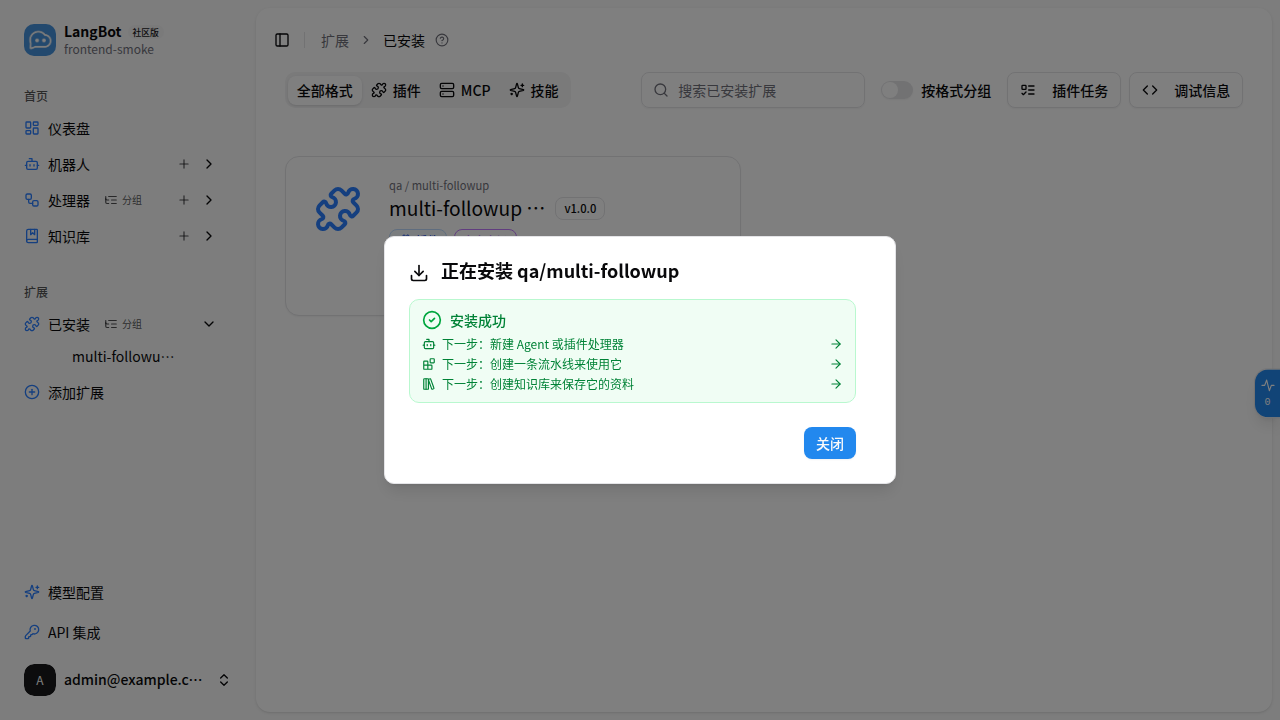
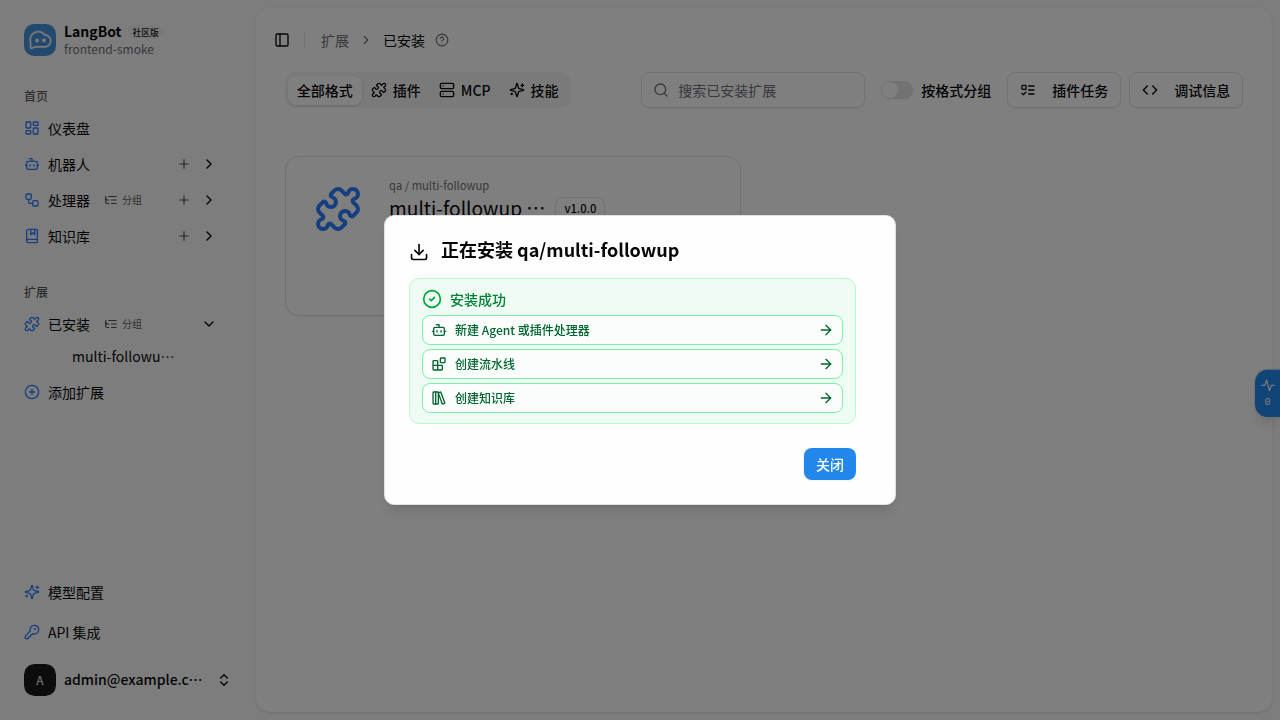
feat(web): make the next steps open the create form and stand out

Changed region(s): [[0.2812, 0.275, 0.7188, 0.5806], [0.2812, 0.4583, 0.7188, 0.7028]]

diff --git a/web/src/app/home/plugins/components/plugin-install-task/PluginInstallFollowUp.tsx b/web/src/app/home/plugins/components/plugin-install-task/PluginInstallFollowUp.tsx
@@ -1,25 +1,61 @@
+import { Link } from 'react-router-dom';
 import { useTranslation } from 'react-i18next';
-import { Blocks, Bot, LibraryBig } from 'lucide-react';
+import { ArrowRight, Blocks, Bot, LibraryBig } from 'lucide-react';
+import type { ReactNode } from 'react';
 import type { Plugin } from '@/app/infra/entities/plugin';
 import { FollowUpKind, followUpKindsForPlugin } from './plugin-follow-up';
-import PluginNextStepRow from './PluginNextStepRow';
+
+/**
+ * One row. Exported from this file rather than living in its own module: the
+ * follow-up and the pending-review line in the dialog are the only two callers,
+ * so a separate file earned nothing but an import.
+ *
+ * Bordered with the install banner's own green so it reads as a control rather
+ * than as body text next to the message.
+ */
+export function NextStepLink({
+  to,
+  icon: Icon,
+  label,
+  onNavigate,
+  children,
+}: {
+  to: string;
+  icon: typeof Bot;
+  label?: string;
+  onNavigate?: () => void;
+  children: ReactNode;
+}) {
+  return (
+    <Link
+      to={to}
+      onClick={onNavigate}
+      aria-label={label}
+      className="flex items-center gap-2 rounded-md border border-green-300 bg-white/70 px-2 py-1.5 text-xs font-medium text-green-800 hover:border-green-500 hover:bg-white dark:border-green-800 dark:bg-green-950/40 dark:text-green-200 dark:hover:border-green-600 dark:hover:bg-green-950/70"
+    >
+      <Icon className="w-4 h-4 shrink-0" aria-hidden="true" />
+      <span className="flex-1">{children}</span>
+      <ArrowRight className="w-4 h-4 shrink-0" aria-hidden="true" />
+    </Link>
+  );
+}
 
 const FOLLOW_UP_PRESENTATION: Record<
   FollowUpKind,
   { to: string; icon: typeof Bot; i18nKey: string }
 > = {
   agents: {
-    to: '/home/agents',
+    to: '/home/agents?id=new',
     icon: Bot,
     i18nKey: 'plugins.installProgress.followUp.agents',
   },
   pipelines: {
-    to: '/home/pipelines',
+    to: '/home/pipelines?id=new',
     icon: Blocks,
     i18nKey: 'plugins.installProgress.followUp.pipelines',
   },
   knowledge: {
-    to: '/home/knowledge',
+    to: '/home/knowledge?id=new',
     icon: LibraryBig,
     i18nKey: 'plugins.installProgress.followUp.knowledge',
   },
@@ -27,6 +63,10 @@ const FOLLOW_UP_PRESENTATION: Record<
 
 /**
  * Post-install "what now" steps derived from the components the plugin ships.
+ *
+ * Each row links straight into the create form (`?id=new`) rather than the
+ * plain list, so the step is one click instead of landing somewhere and
+ * hunting for the button.
  *
  * Renders nothing when no component needs a follow-up (Parser/Page-only
  * plugins), so the success banner stays a single line for those.
@@ -44,26 +84,20 @@ export default function PluginInstallFollowUp({
   if (kinds.length === 0) return null;
 
   return (
-    <div
+    <ul
       className="mt-1.5 space-y-1"
-      role="group"
       aria-label={t('plugins.installProgress.followUp.nextSteps')}
     >
-      <p className="text-xs font-medium text-green-700 dark:text-green-300">
-        {t('plugins.installProgress.followUp.nextSteps')}
-      </p>
       {kinds.map((kind) => {
         const { to, icon: Icon, i18nKey } = FOLLOW_UP_PRESENTATION[kind];
         return (
-          <PluginNextStepRow
-            key={kind}
-            to={to}
-            icon={Icon}
-            text={t(i18nKey)}
-            onNavigate={onNavigate}
-          />
+          <li key={kind}>
+            <NextStepLink to={to} icon={Icon} onNavigate={onNavigate}>
+              {t(i18nKey)}
+            </NextStepLink>
+          </li>
         );
       })}
-    </div>
+    </ul>
   );
 }

diff --git a/web/tests/e2e/plugin-install-followup-shots.spec.ts b/web/tests/e2e/plugin-install-followup-shots.spec.ts
@@ -145,21 +145,26 @@ test('multi-component install shows one link per distinct next step', async ({
   await installLangBotApiMocks(page, { authenticated: true });
   const dialog = await shoot(page, 'multi');
 
-  await expect(
-    dialog.getByRole('link', { name: /Create an Agent/i }),
-  ).toBeVisible();
+  const agent = dialog.getByRole('link', { name: /Create an Agent/i });
+  await expect(agent).toBeVisible();
   await expect(
     dialog.getByRole('link', { name: /Create a pipeline/i }),
   ).toHaveCount(1);
   await expect(
     dialog.getByRole('link', { name: /knowledge base/i }),
   ).toBeVisible();
+  // Each row goes straight into the create form, not the bare list.
+  await expect(agent).toHaveAttribute('href', '/home/agents?id=new');
+
+  // And clicking actually navigates there (the row closes the dialog too).
+  await agent.click();
+  await expect(page).toHaveURL(/\/home\/agents\?id=new/);
 });
 
 test('parser-only install keeps the banner a single line', async ({ page }) => {
   await installLangBotApiMocks(page, { authenticated: true });
   const dialog = await shoot(page, 'parser');
-  await expect(dialog.getByRole('group', { name: /Next steps/i })).toHaveCount(
+  await expect(dialog.getByRole('list', { name: /Next steps/i })).toHaveCount(
     0,
   );
 });
@@ -167,14 +172,21 @@ test('parser-only install keeps the banner a single line', async ({ page }) => {
 test('pending permission review wins over the follow-up', async ({ page }) => {
   await installLangBotApiMocks(page, { authenticated: true });
   const dialog = await shoot(page, 'review');
-  // The review is the only row while it is pending: it sits in the same group
-  // the follow-up uses, so the two states look identical and must not stack.
-  const group = dialog.getByRole('group', { name: /Next steps/i });
-  await expect(group).toHaveCount(1);
-  await expect(
-    group.getByRole('link', { name: /Review permissions|审阅权限|審閱權限/ }),
-  ).toBeVisible();
-  await expect(group.getByRole('link')).toHaveCount(1);
+  // The review renders in the same row shape the follow-up uses, so the two
+  // states look alike; it must be the only row and no follow-up may stack on
+  // top of it.
+  const review = dialog.getByRole('link', {
+    name: /Review permissions|审阅权限|審閱權限/,
+  });
+  await expect(review).toBeVisible();
+  await expect(review).toHaveAttribute(
+    'href',
+    /\/home\/extensions\?id=qa-review%2Freview-followup/,
+  );
+  await expect(dialog.getByRole('list', { name: /Next steps/i })).toHaveCount(
+    0,
+  );
+  await expect(dialog.getByRole('link')).toHaveCount(1);
 });
 
 test('the pending-review list button is short but fully labelled', async ({

diff --git a/web/src/app/home/plugins/components/plugin-install-task/PluginInstallProgressDialog.tsx b/web/src/app/home/plugins/components/plugin-install-task/PluginInstallProgressDialog.tsx
@@ -23,8 +23,7 @@ import {
   InstallStage,
   PluginInstallTask,
 } from './PluginInstallTaskContext';
-import PluginInstallFollowUp from './PluginInstallFollowUp';
-import PluginNextStepRow from './PluginNextStepRow';
+import PluginInstallFollowUp, { NextStepLink } from './PluginInstallFollowUp';
 
 type StageConfig = {
   key: InstallStage;
@@ -175,21 +174,15 @@ function TaskProgressContent({ task }: { task: PluginInstallTask }) {
           </span>
         </div>
         {needsReview && task.pluginName.includes('/') && (
-          <div
-            className="mt-1.5 space-y-1"
-            role="group"
-            aria-label={t('plugins.installProgress.followUp.nextSteps')}
-          >
-            <p className="text-xs font-medium text-green-700 dark:text-green-300">
-              {t('plugins.installProgress.followUp.nextSteps')}
-            </p>
-            <PluginNextStepRow
+          <div className="mt-1.5">
+            <NextStepLink
               to={`/home/extensions?id=${encodeURIComponent(task.pluginName)}`}
               icon={ShieldCheck}
-              text={t('pluginPermissions.review')}
               label={t('pluginPermissions.reviewLabel')}
               onNavigate={() => setSelectedTaskId(null)}
-            />
+            >
+              {t('pluginPermissions.review')}
+            </NextStepLink>
           </div>
         )}
         {isPlugin && !needsReview && (

diff --git a/web/src/app/home/plugins/components/plugin-installed/PluginInstalledComponent.tsx b/web/src/app/home/plugins/components/plugin-installed/PluginInstalledComponent.tsx
@@ -437,8 +437,7 @@ const PluginInstalledComponent = forwardRef<
                 </div>
                 <Button
                   size="sm"
-                  variant="outline"
-                  className="shrink-0"
+                  className="shrink-0 bg-amber-600 text-white hover:bg-amber-700 dark:bg-amber-500 dark:text-amber-950 dark:hover:bg-amber-400"
                   onClick={() => handleExtensionClick(extension)}
                   aria-label={t('pluginPermissions.reviewLabel')}
                 >

diff --git a/dev-docs/screenshots/2804/README.md b/dev-docs/screenshots/2804/README.md
@@ -5,7 +5,7 @@ Captured against a real Vite dev server with Playwright, API mocked (no backend)
 
 | shot | what it proves |
 | --- | --- |
-| `compare-multi.png` | A plugin with Runner + Tool + Command + KnowledgeEngine shows one link per distinct step, and the pipeline step exactly once — the "no duplicate of the same kind" criterion. Before: nothing. |
+| `compare-multi.png` | A plugin with Runner + Tool + Command + KnowledgeEngine shows one row per distinct step, and the pipeline step exactly once — the "no duplicate of the same kind" criterion. Each row is a bordered control that opens the create form directly (`?id=new`). Before: nothing. |
 | `compare-parser.png` | A Parser-only plugin adds no follow-up; the banner stays one line in both. |
 | `compare-review.png` | With a permission review pending, the Review button keeps the banner and no follow-up competes with it. |
 | `compare-multi-zh-Hans.png` / `compare-multi-zh-Hant.png` | The Chinese renderings. Copy is native, not translated English, and the traditional locale uses the same word for a plugin as the rest of its file. |
